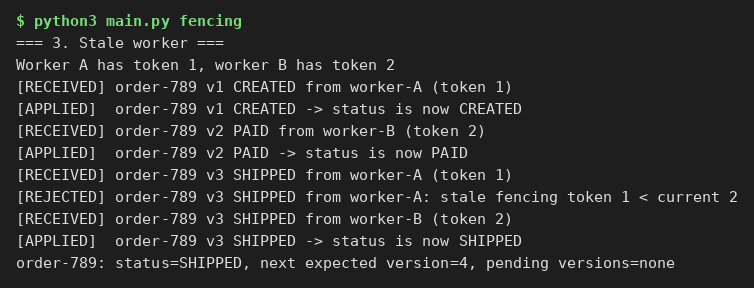
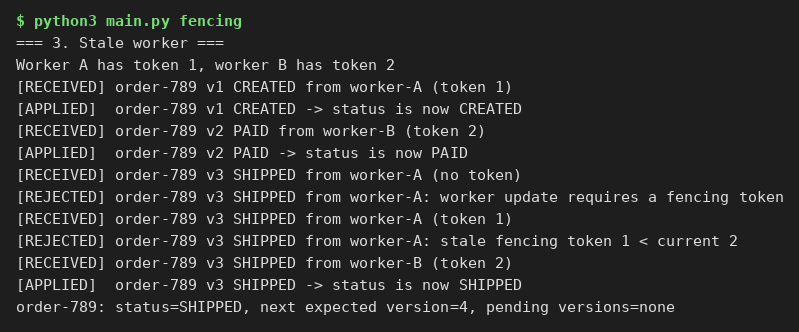
Pending duplicates, explicit events, require fencing tokens

Changed region(s): [[0.0, 0.0312, 0.9761, 0.9688]]

diff --git a/order_processor.py b/order_processor.py
@@ -5,14 +5,31 @@ An order moves through versioned states, e.g. CREATED (v1) -> PAID (v2)
 once. Ordering is decided by the version number, not by arrival time
 or by a timestamp.
 
+Every update is an OrderEvent carrying order_id, version, and status
+(plus, for worker updates, the worker name and its fencing token).
+
 Rules:
 - An event is applied only when its version is the next expected one.
 - A later version arriving early is buffered as pending; the order
   does not jump ahead, and the missing version is recorded.
-- A version already applied is a duplicate and is ignored.
-- A worker update carries a fencing token. A token older than the
-  highest token seen for the order is stale and is rejected.
+- A version already applied, or already pending, is a duplicate and
+  is ignored. A pending version arriving again with a different
+  status is a conflict: it is rejected and the original is kept.
+- A worker update must carry a fencing token. A token older than the
+  highest token seen for the order is stale and is rejected, and a
+  worker update with no token at all is rejected too.
 """
+
+from dataclasses import dataclass
+
+
+@dataclass(frozen=True)
+class OrderEvent:
+    order_id: str
+    version: int
+    status: str
+    worker: str | None = None
+    fencing_token: int | None = None
 
 
 class Order:
@@ -30,22 +47,50 @@ class Order:
         return [v for v in range(self.next_version, max(self.pending) + 1)
                 if v not in self.pending]
 
-    def receive(self, version, status, worker=None, fencing_token=None):
+    def receive(self, event):
         """Receive one event. Returns True if it changed the order."""
-        print(f"[RECEIVED] {self.order_id} v{version} {status}"
-              + (f" from {worker} (token {fencing_token})" if worker else ""))
+        version, status = event.version, event.status
+        if event.worker:
+            token = (f"token {event.fencing_token}"
+                     if event.fencing_token is not None else "no token")
+            print(f"[RECEIVED] {event.order_id} v{version} {status} "
+                  f"from {event.worker} ({token})")
+        else:
+            print(f"[RECEIVED] {event.order_id} v{version} {status}")
 
-        if fencing_token is not None:
-            if fencing_token < self.fencing_token:
+        if event.order_id != self.order_id:
+            print(f"[REJECTED] {self.order_id} v{version} {status}: "
+                  f"event is for {event.order_id}, not {self.order_id}")
+            return False
+
+        if event.worker is not None and event.fencing_token is None:
+            print(f"[REJECTED] {self.order_id} v{version} {status} "
+                  f"from {event.worker}: worker update requires a "
+                  f"fencing token")
+            return False
+
+        if event.fencing_token is not None:
+            if event.fencing_token < self.fencing_token:
                 print(f"[REJECTED] {self.order_id} v{version} {status} "
-                      f"from {worker}: stale fencing token "
-                      f"{fencing_token} < current {self.fencing_token}")
+                      f"from {event.worker}: stale fencing token "
+                      f"{event.fencing_token} < current "
+                      f"{self.fencing_token}")
                 return False
-            self.fencing_token = fencing_token
+            self.fencing_token = event.fencing_token
 
         if version in self.applied or version < self.next_version:
             print(f"[IGNORED]  {self.order_id} v{version} {status}: "
                   f"duplicate, already applied")
+            return False
+
+        if version in self.pending:
+            if self.pending[version] == status:
+                print(f"[IGNORED]  {self.order_id} v{version} {status}: "
+                      f"duplicate, already pending")
+            else:
+                print(f"[REJECTED] {self.order_id} v{version} {status}: "
+                      f"conflicts with pending v{version} "
+                      f"{self.pending[version]}; original kept")
             return False
 
         if version > self.next_version:

diff --git a/main.py b/main.py
@@ -9,16 +9,19 @@ Usage:
 
 import sys
 
-from order_processor import Order
+from order_processor import Order, OrderEvent
 
 
 def demo_ordering():
     print("=== 1. Versioned event ordering ===")
-    print("Delivery order: v2, v1, v2 again")
+    print("Delivery order: v2, v2 again, v2 with a different status, "
+          "v1, v2 again")
     order = Order("order-123")
-    order.receive(2, "PAID")
-    order.receive(1, "CREATED")
-    order.receive(2, "PAID")
+    order.receive(OrderEvent("order-123", 2, "PAID"))
+    order.receive(OrderEvent("order-123", 2, "PAID"))
+    order.receive(OrderEvent("order-123", 2, "SHIPPED"))
+    order.receive(OrderEvent("order-123", 1, "CREATED"))
+    order.receive(OrderEvent("order-123", 2, "PAID"))
     print(order.summary())
     print()
 
@@ -27,7 +30,7 @@ def demo_missing():
     print("=== 2. Missing event ===")
     print("Only v2 arrives; v1 is missing")
     order = Order("order-456")
-    order.receive(2, "PAID")
+    order.receive(OrderEvent("order-456", 2, "PAID"))
     print(order.summary())
     print()
 
@@ -36,10 +39,16 @@ def demo_fencing():
     print("=== 3. Stale worker ===")
     print("Worker A has token 1, worker B has token 2")
     order = Order("order-789")
-    order.receive(1, "CREATED", worker="worker-A", fencing_token=1)
-    order.receive(2, "PAID", worker="worker-B", fencing_token=2)
-    order.receive(3, "SHIPPED", worker="worker-A", fencing_token=1)
-    order.receive(3, "SHIPPED", worker="worker-B", fencing_token=2)
+    order.receive(OrderEvent("order-789", 1, "CREATED",
+                             worker="worker-A", fencing_token=1))
+    order.receive(OrderEvent("order-789", 2, "PAID",
+                             worker="worker-B", fencing_token=2))
+    order.receive(OrderEvent("order-789", 3, "SHIPPED",
+                             worker="worker-A"))
+    order.receive(OrderEvent("order-789", 3, "SHIPPED",
+                             worker="worker-A", fencing_token=1))
+    order.receive(OrderEvent("order-789", 3, "SHIPPED",
+                             worker="worker-B", fencing_token=2))
     print(order.summary())
     print()
 

diff --git a/README.md b/README.md
@@ -4,11 +4,13 @@ A small order-processing simulation in Python. An order moves through
 versioned states. Events may arrive late, out of order, or more than once. Ordering is
 decided by the version number, not by arrival time or timestamp.
 
-`order_processor.py` holds the `Order` class. It applies an event only
-when its version is the next expected one, buffers a later version as
-pending, ignores duplicates, and rejects updates from a worker whose
-fencing token is older than the highest token seen. `main.py` runs the
-three demos below.
+order_processor.py holds the Order class and the OrderEvent dataclass.
+Every update is an event carrying order_id, version, and status, plus
+the worker name and its fencing token for worker updates. An event is
+applied only when its version is the next expected one, a later version
+is buffered as pending, duplicates are ignored, a conflicting repeat of
+a pending version is rejected, and a worker update with a stale token
+or no token is rejected. main.py runs the three demos below.
 
 ## Running the program
 
@@ -23,7 +25,7 @@ python3 main.py fencing    # stale worker rejected by fencing token
 
 ## Example: correct event ordering
 
-Delivery order: v2, v1, v2 again.
+Delivery order: v2, v2 again, v2 with a different status, v1, v2 again.
 
 ```bash
 $ python3 main.py ordering
@@ -31,9 +33,13 @@ $ python3 main.py ordering
 
 ```
 === 1. Versioned event ordering ===
-Delivery order: v2, v1, v2 again
+Delivery order: v2, v2 again, v2 with a different status, v1, v2 again
 [RECEIVED] order-123 v2 PAID
 [BUFFERED] order-123 v2 PAID: waiting for missing version(s) [1]; status stays None
+[RECEIVED] order-123 v2 PAID
+[IGNORED]  order-123 v2 PAID: duplicate, already pending
+[RECEIVED] order-123 v2 SHIPPED
+[REJECTED] order-123 v2 SHIPPED: conflicts with pending v2 PAID; original kept
 [RECEIVED] order-123 v1 CREATED
 [APPLIED]  order-123 v1 CREATED -> status is now CREATED
 [APPLIED]  order-123 v2 PAID -> status is now PAID
@@ -50,11 +56,14 @@ order ends as PAID in the correct order.
 
 ## Evidence: duplicate handling
 
-The second v2 in the run above is the duplicate test. It is received
-again after v1 and v2 have already been applied, and the program logs
-`[IGNORED] order-123 v2 PAID: duplicate, already applied`. The final
-status stays PAID and the next expected version stays 3, so the
-duplicate has no effect.
+The run above tests duplicates twice. The second v2, received while
+v2 is still pending, is ignored (`duplicate, already pending`). A
+repeat of v2 with a different status (SHIPPED instead of PAID) is
+rejected (`conflicts with pending v2 PAID; original kept`), so it
+cannot overwrite the buffered event. The final v2, received after v1
+and v2 have already been applied, is ignored (`duplicate, already
+applied`). The final status stays PAID and the next expected version
+stays 3, so no duplicate has any effect.
 
 ## Evidence: missing-event case
 
@@ -92,6 +101,8 @@ Worker A has token 1, worker B has token 2
 [APPLIED]  order-789 v1 CREATED -> status is now CREATED
 [RECEIVED] order-789 v2 PAID from worker-B (token 2)
 [APPLIED]  order-789 v2 PAID -> status is now PAID
+[RECEIVED] order-789 v3 SHIPPED from worker-A (no token)
+[REJECTED] order-789 v3 SHIPPED from worker-A: worker update requires a fencing token
 [RECEIVED] order-789 v3 SHIPPED from worker-A (token 1)
 [REJECTED] order-789 v3 SHIPPED from worker-A: stale fencing token 1 < current 2
 [RECEIVED] order-789 v3 SHIPPED from worker-B (token 2)
@@ -100,8 +111,9 @@ order-789: status=SHIPPED, next expected version=4, pending versions=none
 ```
 
 The worker with the newer token (B, token 2) can update the order.
-The worker with the older token (A, token 1) is rejected, and the
-same update then succeeds from worker B.
+Worker A is rejected twice: once for sending no fencing token at
+all, and once for using its older token 1. The same update then
+succeeds from worker B.
 
 ![Stale worker rejection](screenshots/stale-worker.png)
 
